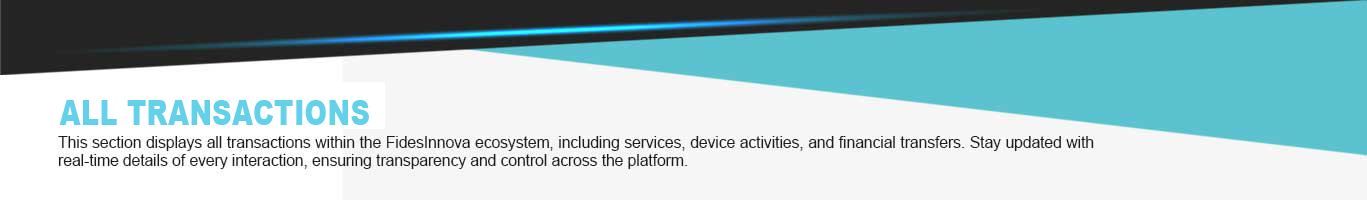
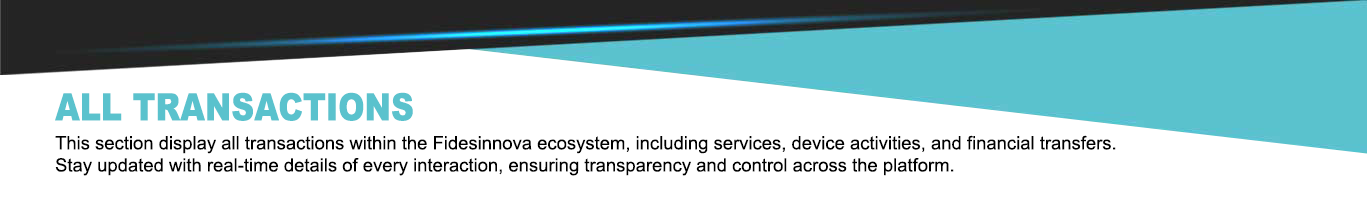
FrontEnd Update

diff --git a/frontend/src/store/store.js b/frontend/src/store/store.js
@@ -26,7 +26,7 @@ export const usePageStore = create((set) => ({
 		},
 		{
 			route: "/tx",
-			title: "All Operations",
+			title: "All Transactions",
 			key: "transactions",
 			component: <AllTransactionsPage />,
 			Icon: HiOutlineCash,
